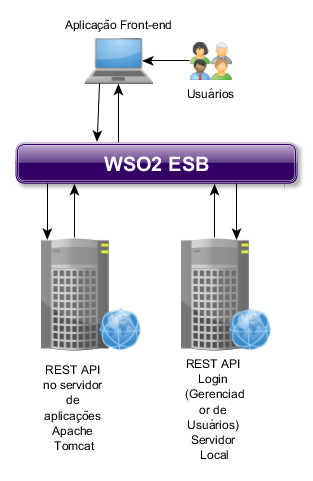
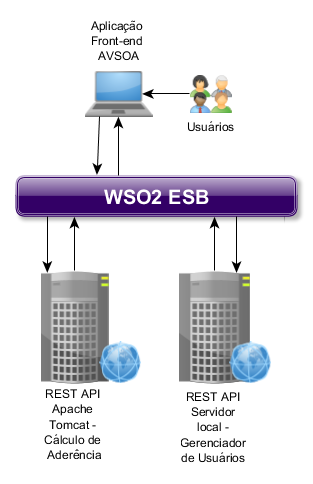
Versão final corrigida

diff --git a/editaveis/engenhariadesoftware.tex b/editaveis/engenhariadesoftware.tex
@@ -590,9 +590,13 @@ A definição do serviço de \textit{proxy} estabelece que o serviço permite co
 Integrado à plataforma virtual, o serviço de gerenciamento de usuários permite controlar o acesso de usuários aos serviços conectados e disponibilizados através da plataforma. Desta maneira, ao registrar um usuário na plataforma virtual, os dados do usuário são salvos e este é associado à plataforma por meio do seu identificador (método POST da API). Ao tentar realizar o \textit{login} do usuário na plataforma virtual, é realizada uma requisição afim de verificar se o usuário possui permissão de acesso a plataforma (método GET da API).
 
 \section{Testes e Resultados}
-Foram realizadas medições de complexidade, desempenho e esforço empreendido no que diz respeito ao serviço de cálculo de aderência de perfis. Com o auxílio da ferramenta CkeckStyle (http://checkstyle.sourceforge.net/), a complexidade ciclomática do projeto de algoritmo de inferência foi coletada e analisada. A coleta foi realizada antes e depois da adaptação. Como resultado, apenas dois métodos apresentaram complexidade ciclomática alta (acima de 10). Como houve alteração para que a comparação de perfis pudesse ser realizada no modo 1:N, a complexidade ciclomática do método principal do cálculo de aderência aumentou em uma unidade. Não houve alteração no valor da complexidade ciclomática de outros métodos e classes, uma vez que não foram alteradas ou as alterações não influenciaram nesta medição.
+Foram realizadas medições de complexidade, desempenho e esforço empreendido no que diz respeito ao serviço de cálculo de aderência de perfis. Estas medidas foram escolhidas pois são capazes de fornecer dados suficientes para avaliar a possibilidade de implementação, em outros contextos, da arquitetura aqui desenvolvida.
 
-Os testes de desempenho executados compararam esta medida quando o serviço e a aplicação cliente são conectados ponto a ponto, e quando são conectados com o uso do WSO2 ESB. Estes testes foram realizados de duas maneiras: na primeira, os testes foram iniciados e as requisições foram enviadas em sequência, sem que nenhum dos componentes (API, ESB ou ambiente virtual) fossem reinicializados (Cenário 1); na segunda, os componentes eram reinicializados antes do envio de uma requisição (Cenário 2). Foi adotado esse método de comparação afim de verificar alterações quando um componente já teve uma operação executada ou dados da execução anterior armazenados em cache. A Tabela \ref{resultado_desempenho} exibe os resultados obtidos.
+A complexidade ciclomática do projeto de algoritmo de inferência foi coletada e analisada com o auxílio da ferramenta CkeckStyle (http://checkstyle.sourceforge.net/). A coleta desta medida foi realizada em dois momentos: antes e depois da adaptação do código-fonte às necessidades identificadas. Como resultado, apenas dois métodos apresentaram complexidade ciclomática alta (acima de 10). Como houve alteração para que a comparação de perfis pudesse ser realizada no modo 1:N, a complexidade ciclomática do método principal do cálculo de aderência aumentou em uma unidade. Não houve alteração no valor da complexidade ciclomática de outros métodos e classes, uma vez que não foram alteradas ou as alterações não influenciaram nesta medição.
+
+Os testes de desempenho executados compararam esta medida quando o serviço e a aplicação cliente são conectados ponto a ponto, e quando são conectados com o uso do barramento de serviços - WSO2 ESB - como uma aplicação intermediária. A principal finalidade deste teste foi investigar o impacto da inserção de um elemento intermediário para a integração das aplicações e serviços.
+
+As medidas de desempenho foram coletadas de duas maneiras: na primeira, os testes foram iniciados e as requisições foram enviadas em sequência, sem que nenhum dos componentes (API, ESB ou ambiente virtual) fossem reinicializados (Cenário 1); na segunda, os componentes eram reinicializados antes do envio de uma requisição (Cenário 2). Foi adotado esse método de comparação afim de verificar alterações quando um componente já teve uma operação executada ou dados da execução anterior armazenados em cache. A Tabela \ref{resultado_desempenho} exibe os resultados obtidos.
 
 \begin{table}[!htbp]
 \centering
@@ -616,9 +620,9 @@ Número do Teste               & ESB   & Ponto-a-Ponto & ESB    & Ponto-a-Ponto 
 
 Os testes de desempenho executados demonstraram que a média de tempo para obtenção de resposta ao requisitar o cálculo do fator de aderência foi maior quando a conexão foi realizada ponto a ponto. Os maiores e menos valores de cada coluna foram excluídos para o cálculo do valor médio final. O resultado dos testes de desempenho executados indica que a proposta arquitetural, como o uso do ESB, não degrada o desempenho geral da solução.
 
-A coleta de esforço empreendido para adaptar a aplicação existente e fornecer suas funcionalidades como serviço através de uma API REST foi realizada com base em \textit{commits} da ferramentas de controle utilizada (Git). Uma vez que os \textit{commits} permitem o registro de modificações e data correspondentes. Esta funcionalidade da ferramenta de controle utilizada foi útil para realizar as medidas de esforço empreendido para implementar a adaptação necessária no código-fonte da aplicação.
+A medida de esforço foi coletada afim de obter-se um parâmetro para avaliação de viabilidade de alocação de um profissional para adaptação de um sistema legado e integrá-lo à uma aplicação cliente utilizando o WSO2 ESB. A coleta de esforço empreendido para adaptar a aplicação existente e fornecer suas funcionalidades como serviço através de uma API REST foi realizada com base no espaçamento de tempo entre \textit{commits} registrados na ferramenta de controle de versão utilizada (Git), uma vez que os \textit{commits} permitem o registro de modificações e data correspondentes. Esta funcionalidade da ferramenta de controle de versão utilizada foi útil para realizar as medidas de esforço empreendido para implementar a adaptação necessária no código-fonte da aplicação.
 
-O esforço foi medido em tempo e categorizado por dois aspectos: esforço/tempo necessário para adaptação e esforço/tempo empreendido para integração ao barramento de serviços (WSO2 ESB). A medida de esforço para adaptação expressa o tempo utilizado para realizar modificações necessárias no código-fonte e fornecer suas funcionalidades como operações de um serviço em uma API REST. O esforço empreendido para integração ao barramento de serviços mede o tempo (em horas) necessário para a configuração de uma nova aplicação ao incorporá-la como uma API REST ao ESB e implementação do \textit{backend} de uma aplicação cliente (neste caso, o ambiente virtual).
+O esforço foi medido em tempo e categorizado por dois aspectos: esforço/tempo necessário para adaptação e para integração ao barramento de serviços (WSO2 ESB). A medida de esforço para adaptação expressa o tempo utilizado para realizar modificações necessárias no código-fonte e fornecer suas funcionalidades como operações de um serviço em uma API REST. O esforço empreendido para integração ao barramento de serviços mede o tempo (em horas) necessário para a configuração de uma nova aplicação ao incorporá-la como uma API REST ao ESB e implementação do \textit{backend} de uma aplicação cliente (neste caso, o ambiente virtual).
 
 O tempo total de esforço para a adaptação da aplicação foi de 41 horas, onde:
 \begin{itemize}
@@ -628,3 +632,5 @@ O tempo total de esforço para a adaptação da aplicação foi de 41 horas, ond
 \end{itemize}
 
 A construção da plataforma virtual e conexão com o serviço através do ESB consumiu 15 horas de esforço. Desta forma, o esforço total necessário para a adaptação de uma aplicação existente, implementando uma API REST, configuração da API implementada e conexão com uma aplicação cliente foi de 56 horas.
+
+A medida de esforço coletada está relacionada ao perfil de um profissional com experiência nas tecnologias utilizadas e produtividade em nível intermediário. Estes dados podem ser utilizados como parâmetros para adequação das medidas coletadas de acordo com a complexidade do sistema e produtividade e experiência do profissional alocado para a realização de atividades similares.

diff --git a/editaveis/consideracoesfinais.tex b/editaveis/consideracoesfinais.tex
@@ -1,8 +1,10 @@
 \chapter[Conclusões e Trabalhos Futuros]{Conclusões e Trabalhos Futuros}
 
-Neste trabalho, foi especificada e desenvolvida uma arquitetura de \textit{software} integrativa baseada no modelo SOA, onde aplicações individuais puderam ser integradas por meio da troca de dados entre estas. A troca de dados entre as aplicações foi baseada em um protocolo de comunicação definido para este contexto. Estas aplicações são resultados de trabalhos do grupo de orientandos e atividades desenvolvidas em laboratório de pesquisa e desenvolvimento de \textit{software}.
+Neste trabalho, foi especificada e desenvolvida uma arquitetura de \textit{software} integrativa baseada no modelo SOA, onde aplicações individuais puderam ser integradas por meio da troca de dados entre estas. A troca de dados entre as aplicações foi baseada em um protocolo de comunicação definido para este contexto. Estas aplicações são resultados de trabalhos do grupo de orientandos e atividades desenvolvidas em laboratório de pesquisa e desenvolvimento de produtos de \textit{software} na Universidade de Brasília.
 
-A partir do que foi proposto e construído, já é possível disponibilizar à comunidade acadêmica um ambiente virtual, por meio de uma plataforma web, que dispõe de serviços (ou funcionalidades) de aplicações existentes.
+A partir do que foi proposto e construído, já é possível disponibilizar à comunidade acadêmica um ambiente virtual, por meio de uma plataforma web, que dispõe de serviços (ou funcionalidades) de aplicações existentes e desenvolvidos no contexto estabelecido para este projeto de conclusão de curso.
+
+A implementação da arquitetura SOA utilizando a abordagem de integração \textit{Hub-and-Spoke} permitiu a integração de sistemas heterogêneos em uma plataforma unificada - o ambiente virtual. Além disto, foi estabelecido um protocolo de comunicação para uniformizar o formato dos dados e tecnologias utilizadas para a troca de dados entre as aplicações  que compõem o ambiente virtual.
 
 Foi feita não só a implementação, mas também testes de desempenho e esforço necessário para construir uma API REST a partir de um sistema legado. Além disto, a complexidade ciclomática do sistema legado foi medida para avaliação da alteração da métrica de qualidade do código-fonte modificado. Os resultados dos testes e da análise da métrica de qualidade selecionada exibiram resultados interessantes no que diz respeito ao desempenho: por motivos ainda desconhecidos, o uso do ESB melhorou um pouco o desempenho do sistema de modo geral e não houve alterações significavas nas métricas colhidas do código.
 
@@ -12,11 +14,13 @@ Foram exibidos detalhes de como adaptar um sistema legado, transformando-o em um
 
 Um subproduto resultante da execução deste projeto foi o AVSOA (Ambiente Virtual - Arquitetura Orientada à Serviços). O AVSOA é a implementação da aplicação cliente construída para realizar requisições aos serviços disponibilizados no barramento de serviços. Esta aplicação permite que novos serviços, caso não possuam uma interface gráfica já construída, ou sistemas legados que disponibilizam suas funcionalidades (ou parte delas) como um serviço possam ser incorporadas a uma arquitetura que suporta a integração de diversos serviços.
 
-Pode-se chegar à conclusão de que o conjunto de atividades desenvolvidas resultou em produtos de \textit{software} que atendem aos requisitos especificados, tanto em termos de qualidade de desempenho e quanto de necessidade. Ainda é possível afirmar que o modelo arquitetural baseado em serviços com a abordagem de integração \textit{Hub-and-Spoke} é uma forma de implementar um sistema heterogêneo, sendo recomendável quando o assunto é sistema distribuído e integrativo. As aplicações que se comportam como serviços podem também possuir suas próprias extensões e serem executadas de modo \textit{standalone}.
+O conjunto de atividades desenvolvidas resultou em produtos de \textit{software} que atendem aos requisitos especificados, tanto em termos de qualidade de desempenho e quanto de necessidade. Retomando a questão principal de pesquisa - "Como é possível implementar um sistema de \textit{software} composto a partir da integração de aplicações individuais, sendo estas aplicações desenvolidas com base em tecnologias, técnicas e métodos distintos?" - é possível afirmar que o modelo arquitetural baseado em serviços com a abordagem de integração \textit{Hub-and-Spoke} é uma forma de implementar um sistema heterogêneo, sendo recomendável quando o assunto é sistema distribuído e integrativo. 
 
-Questões relacionadas à segurança, tais como autenticação e autorização de usuários e serviços e criptografia não foram inseridas no escopo deste projeto de conclusão de curso. Sabe-se que o ESB escolhido (WSO2 ESB) dá suporte para requisitos de segurança de autenticação e autorização. 
+A questão secundária que moveu este trabalho de conclusão de curso foi "As aplicações que compõem este sistema podem ser executadas de modo \textit{standalone} ou apenas em conjunto ao sistema?". Com base nas atividades realizadas e nos resultados obtidos, pode-se concluir que as aplicações que se comportam como serviços podem também possuir suas próprias extensões e serem executadas de modo \textit{standalone}.
 
-Durante os testes realizados, observou-se a necessidade de inserção de requisitos que não foram inicialmente elicitados. Estes requisitos podem ser tratados em trabalhos futuros, e estão descritos abaixo.
+Características relacionadas à segurança, tais como autenticação e autorização de usuários e serviços e criptografia não foram inseridas no escopo deste projeto. Sabe-se que o ESB escolhido (WSO2 ESB) dá suporte para requisitos de segurança de autenticação e autorização. 
+
+Durante os testes realizados, observou-se a necessidade de inserção de requisitos que não foram inicialmente elicitados. Estes requisitos podem ser tratados em trabalhos futuros, os quais estão descritos como segue:
 
 \begin{itemize}
 \item Realizar verificação e adequação de segurança na arquitetura implementada;
@@ -27,5 +31,7 @@ Durante os testes realizados, observou-se a necessidade de inserção de requisi
 \item Analisar e selecionar outros trabalhos desenvolvidos para serem adaptados e adicionados ao barramento de serviços (WSO2 ESB) e ao AVSOA.
 \end{itemize}
 
+
+Em suma, pode-se concluir que utilizando-se SOA é possível implementar sistemas de \textit{software} compostos de aplicações individuais integradas. Além disto, a implantação de um ESB em uma arquitetura integrativa com sistemas legados tem uma estimativa de esforço de aproximadamente 56 horas para conclusão, sem ônus no que diz respeito à complexidade e ao desempenho do sistema.
 
 %O uso de uma arquitetura baseada no modelo SOA não elimina o trabalho necessário para a inserção de novos serviços: o seu uso visa minimizar os reparos que devem ser feitos para que uma nova funcionalidade seja incorporada ao sistema, promovendo extensibilidade e flexibilidade à arquitetura construída.
